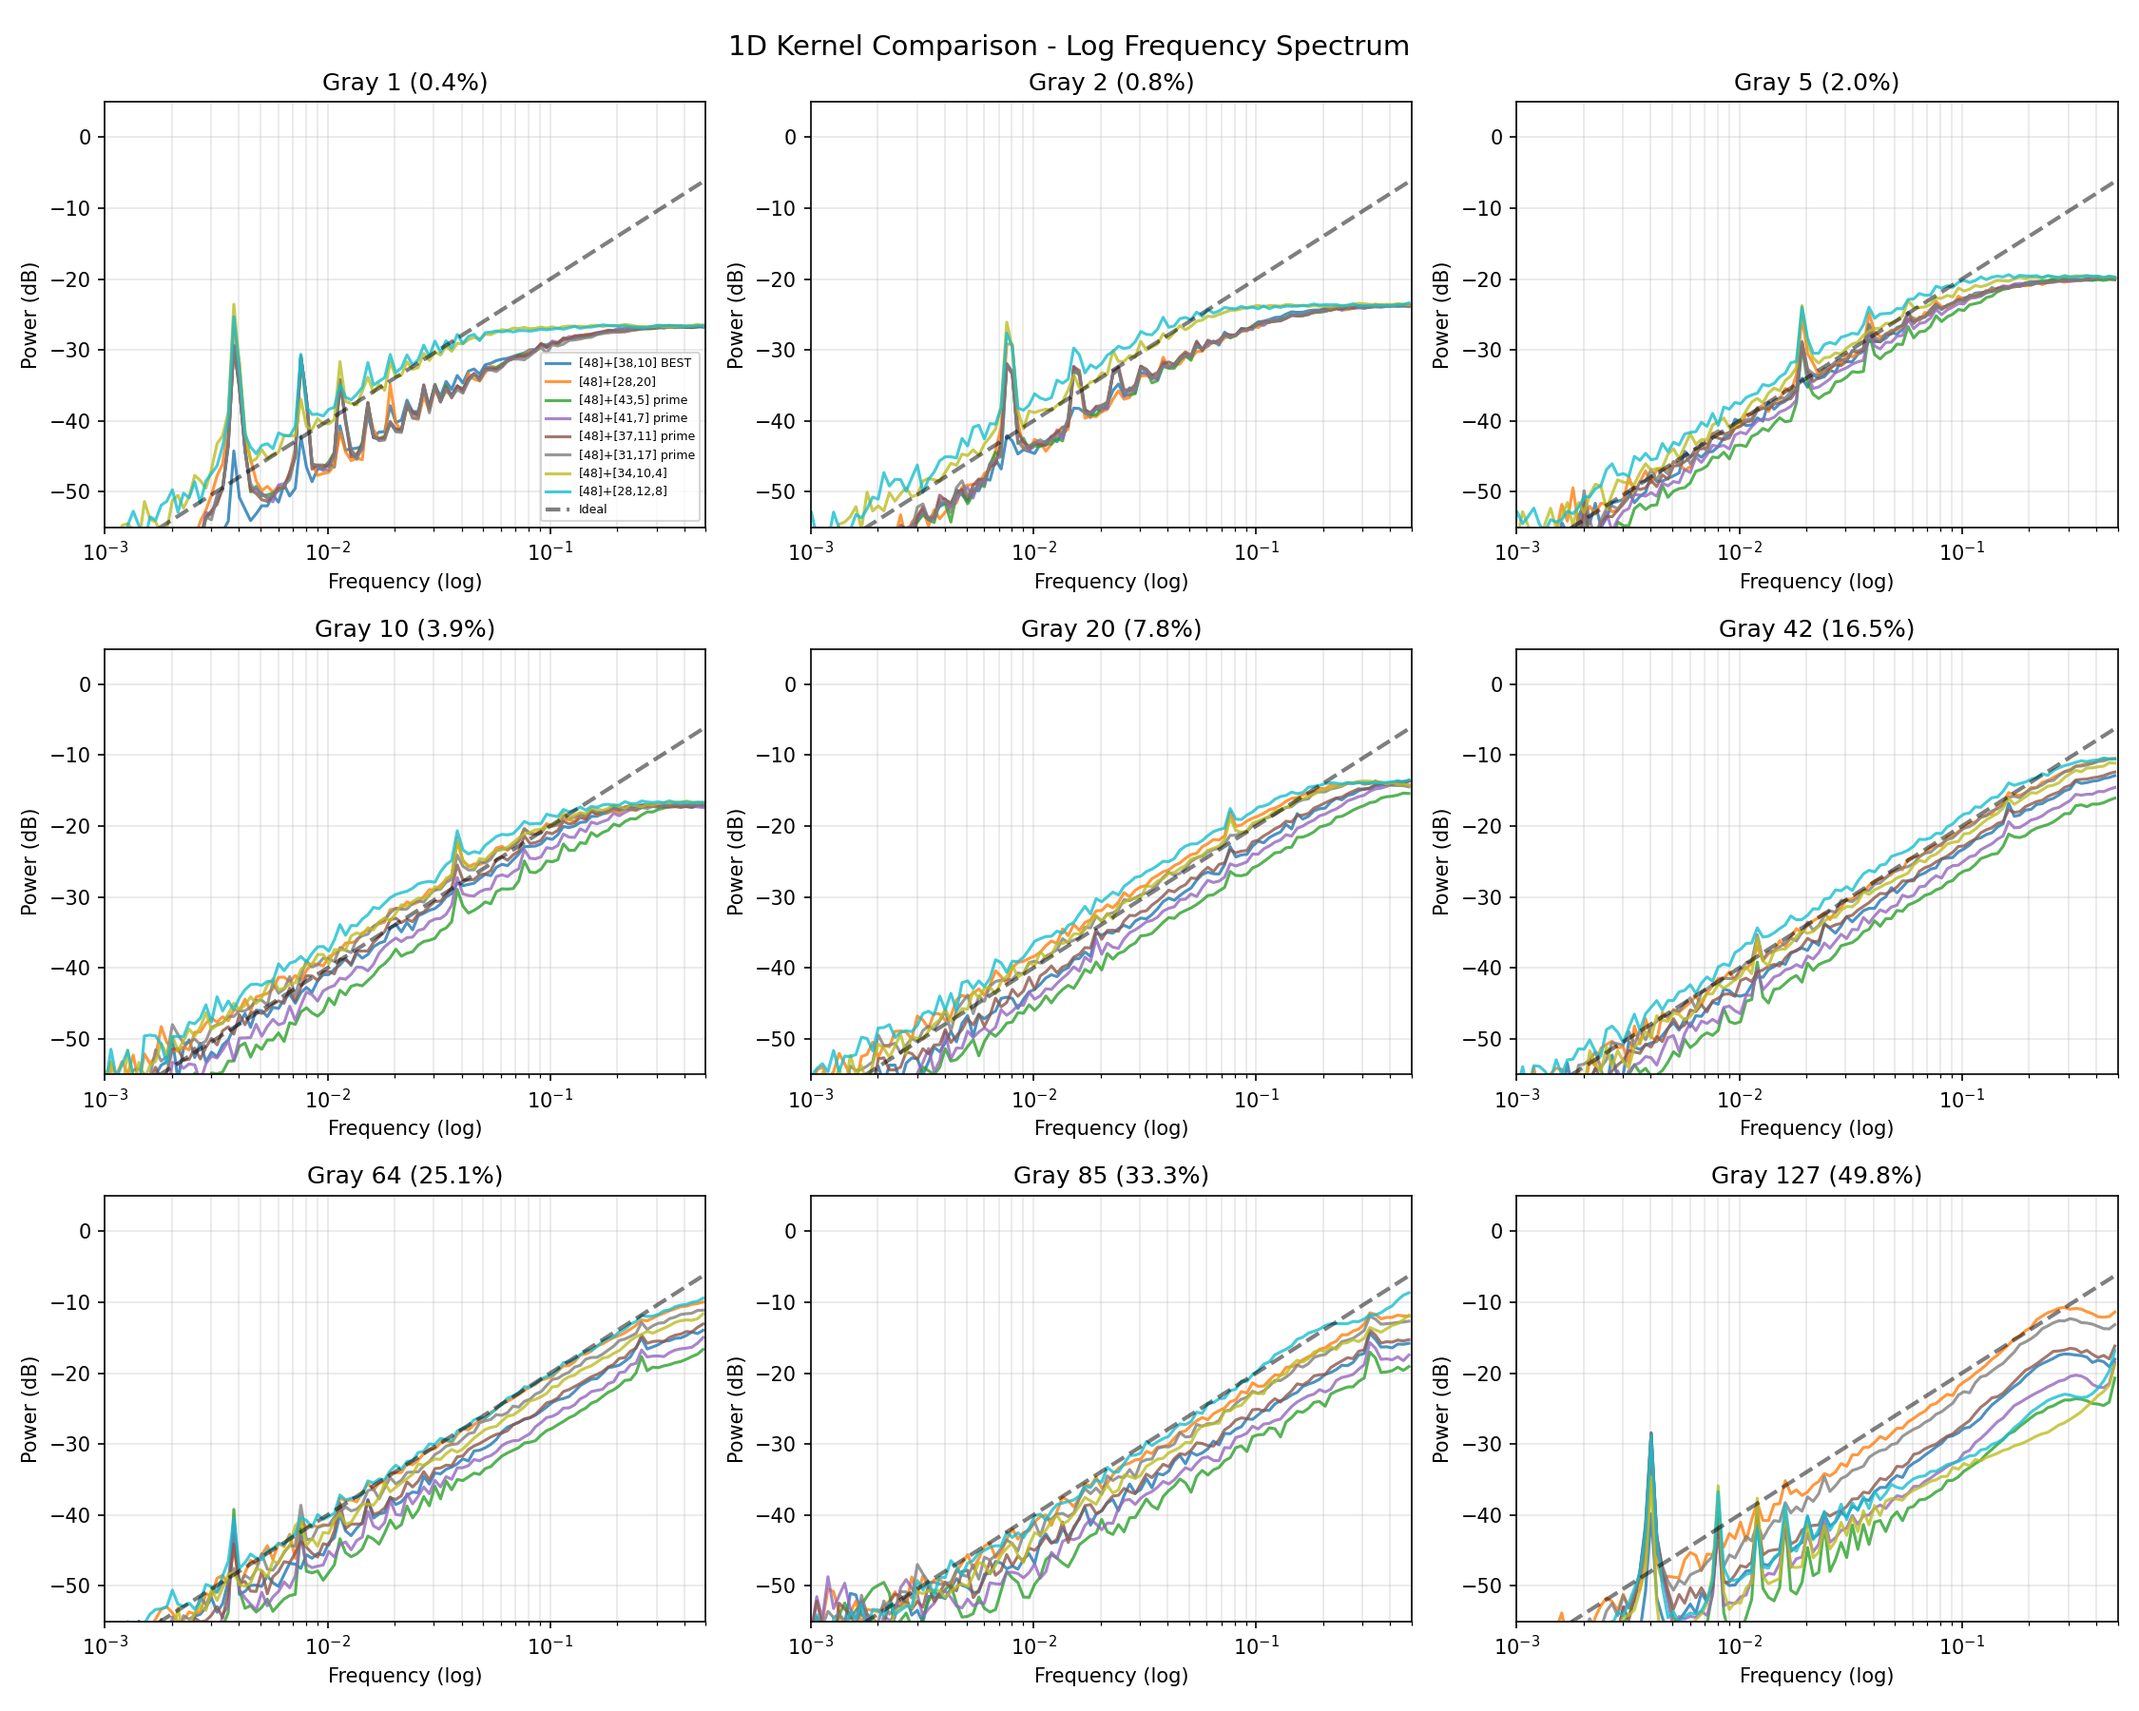
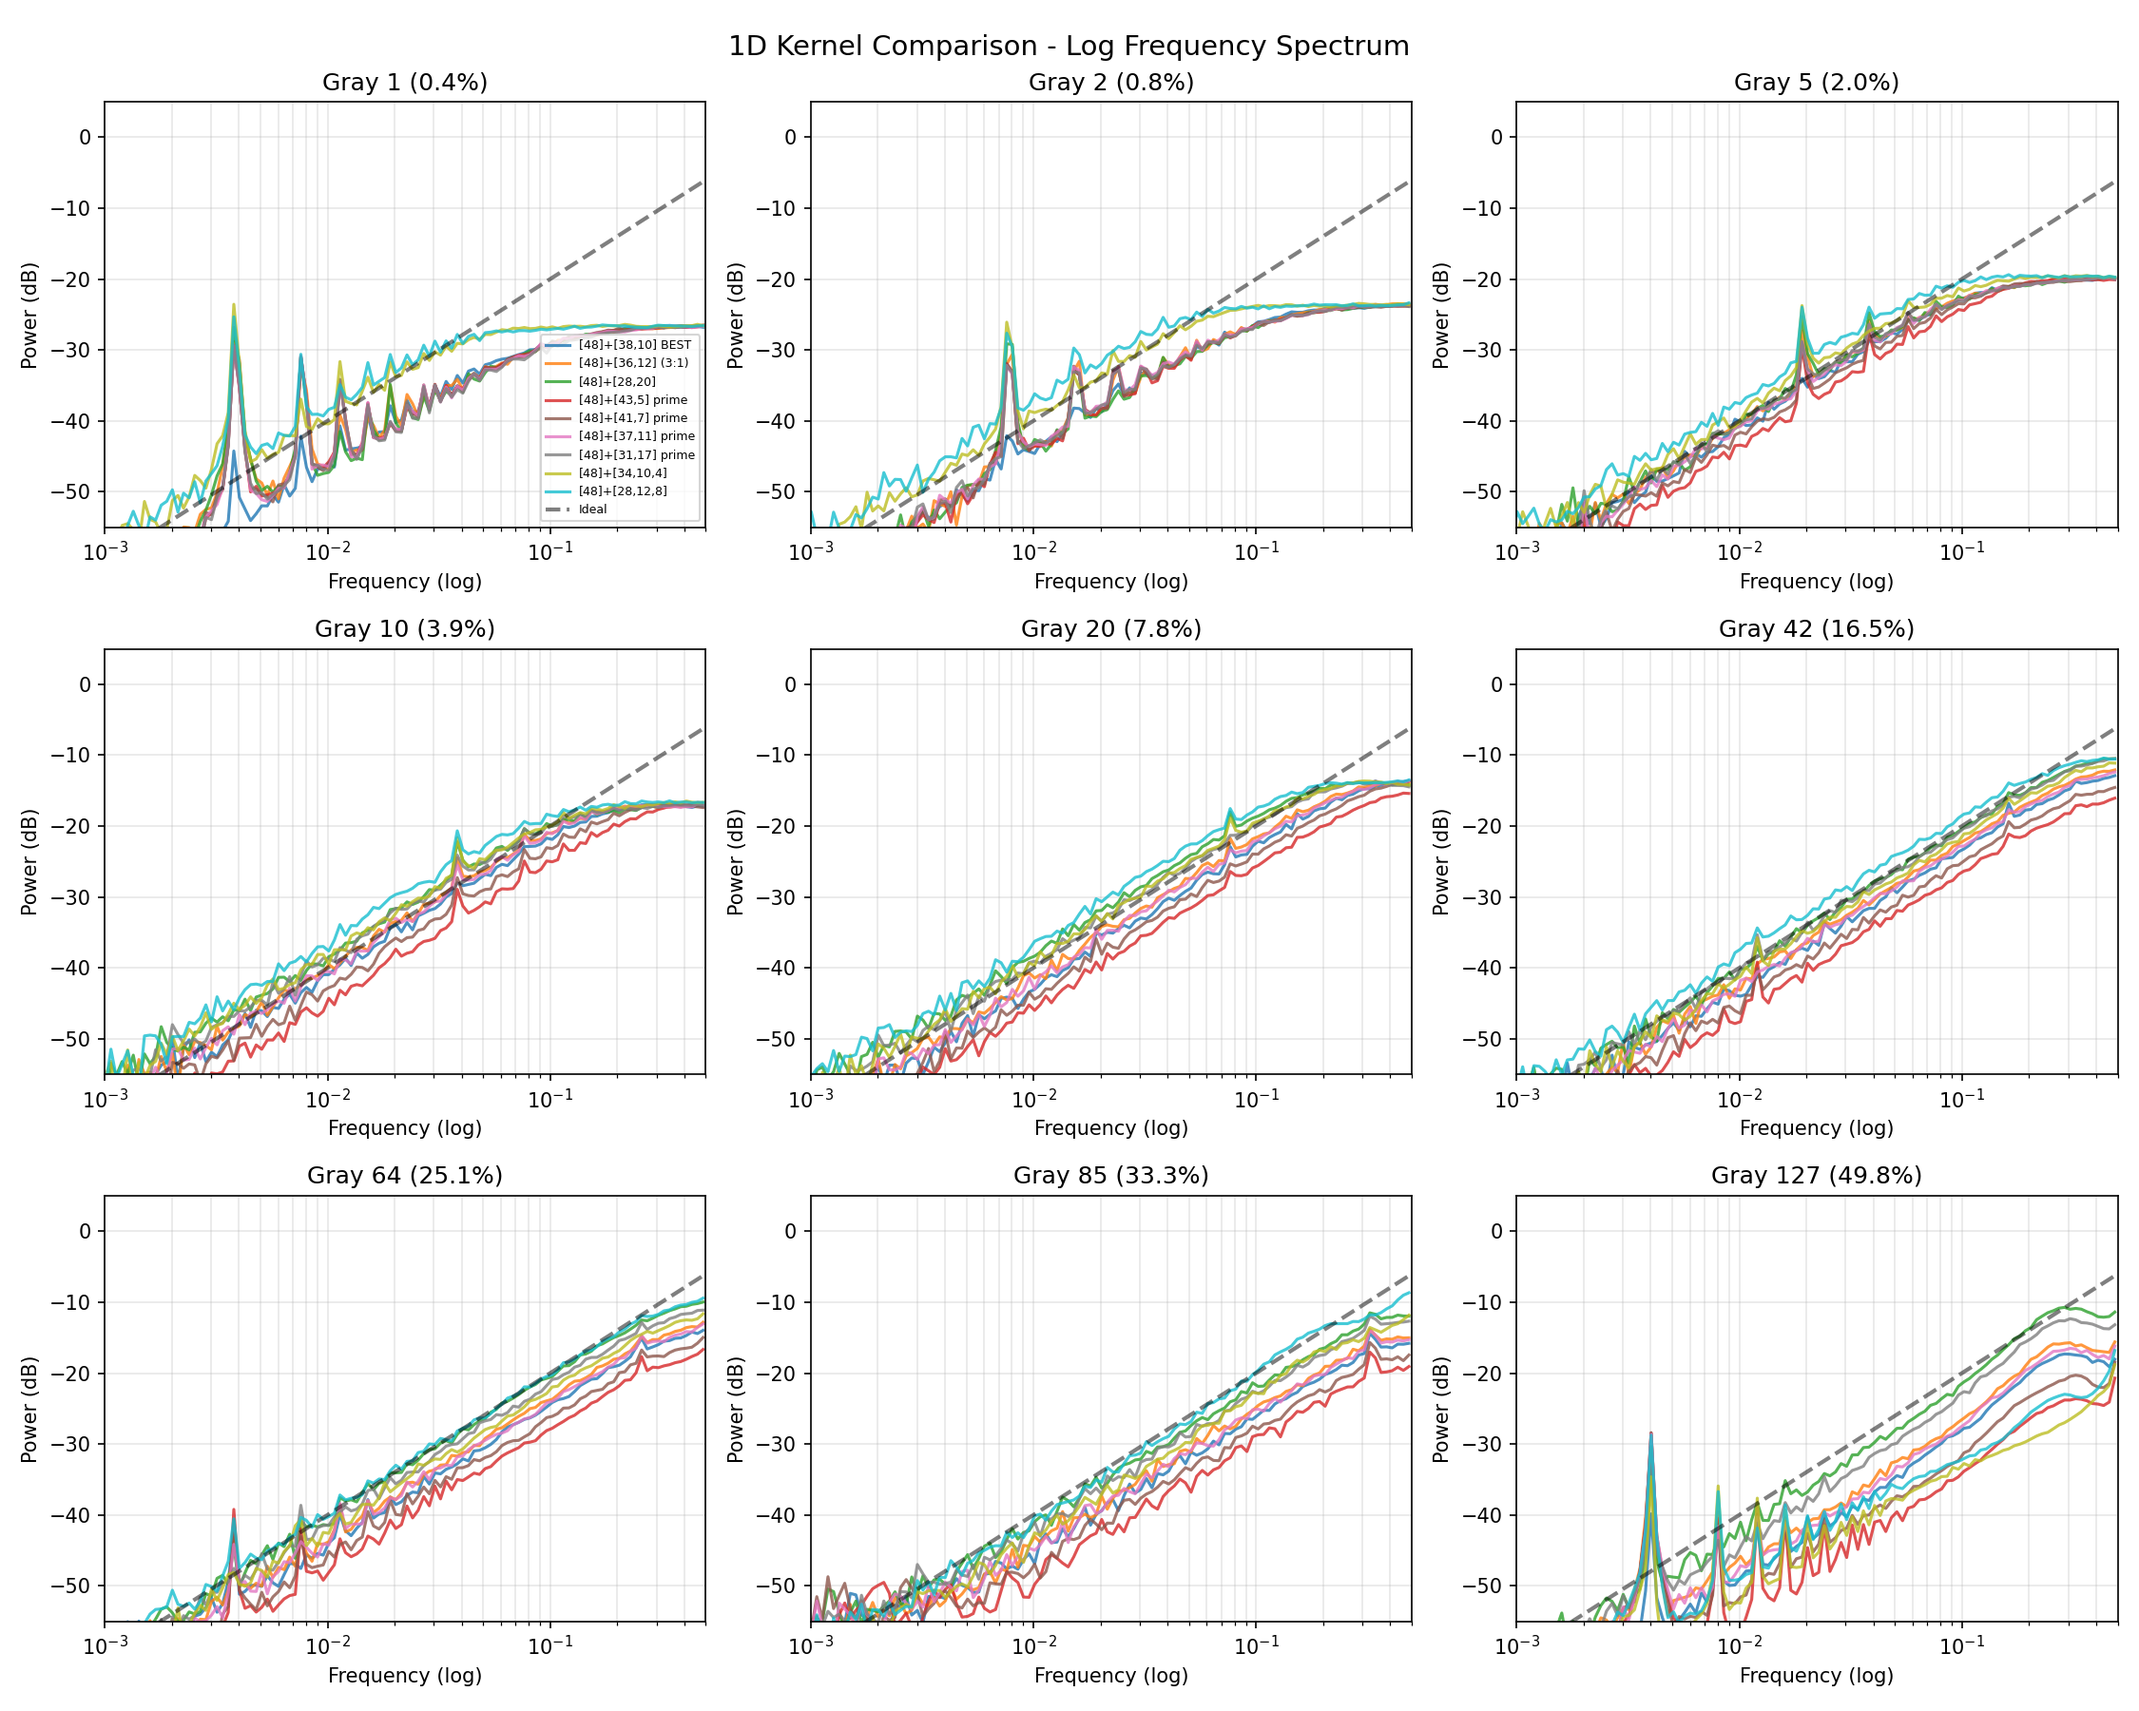
Test additional

diff --git a/tools/analyze_1d_dither.py b/tools/analyze_1d_dither.py
@@ -31,15 +31,30 @@ def lowbias32(x):
     x ^= x >> 15
     return x
 
-def blue_dither_1d(brightness, count, seed=12345):
+def blue_dither_1d(brightness, count, seed=12345, kernel='38_10'):
     """
     1D blue noise dithering - replicates C implementation.
-    Mixes [48] with [38,10] kernels (ratio ~4:1, optimal for 1D).
+    Mixes [48] with configurable second kernel.
+
+    kernel options:
+        '38_10' - ratio ~4:1 (current best)
+        '36_12' - ratio 3:1 ([3,1] scaled)
+        '28_20' - ratio 7:5 (original JJN-like)
     """
     err0, err1 = 0, 0
     output = np.zeros(count, dtype=np.uint8)
     threshold = 6120   # 127.5 * 48
     white_val = 255 * 48
+
+    # Kernel coefficients
+    if kernel == '38_10':
+        k1_coeff, k2_coeff = 38, 10
+    elif kernel == '36_12':
+        k1_coeff, k2_coeff = 36, 12
+    elif kernel == '28_20':
+        k1_coeff, k2_coeff = 28, 20
+    else:
+        k1_coeff, k2_coeff = 38, 10
 
     for i in range(count):
         pixel = brightness * 48 + err0
@@ -59,9 +74,9 @@ def blue_dither_1d(brightness, count, seed=12345):
             # FS-like: 100% to next
             err0 += quant_err
         else:
-            # Optimal 1D kernel: 38:10 ratio = 2×[19,5] (both prime)
-            err0 += (quant_err * 38) // 48
-            err1 += (quant_err * 10) // 48
+            # Second kernel
+            err0 += (quant_err * k1_coeff) // 48
+            err1 += (quant_err * k2_coeff) // 48
 
     return output
 
@@ -348,11 +363,97 @@ def analyze_comparison(gray_levels, count, output_dir):
     print(f"  {output_path.name}")
 
 
+def analyze_kernel_comparison(gray_levels, count, output_dir):
+    """Compare different 1D kernels across all gray levels."""
+    print("Comparing kernels across all gray levels...")
+
+    kernels = {
+        '[38,10] (3.8:1)': '38_10',
+        '[36,12] (3:1)': '36_12',
+        '[28,20] (1.4:1)': '28_20',
+    }
+    colors = {'38_10': '#2ecc71', '36_12': '#3498db', '28_20': '#e74c3c'}
+
+    # Print table header
+    print(f"\n  {'Kernel':<20}", end="")
+    for g in gray_levels:
+        print(f" G{g:>3}", end="")
+    print("    Avg")
+    print(f"  {'-'*70}")
+
+    results = {}
+    for name, kernel_id in kernels.items():
+        slopes = []
+        for gray in gray_levels:
+            sig = blue_dither_1d(gray, count, kernel=kernel_id)
+            freqs, power = compute_spectrum(sig)
+            slope = measure_slope(freqs, power)
+            slopes.append(slope if slope else 0)
+
+        avg_slope = np.mean(slopes)
+        results[name] = (slopes, avg_slope, kernel_id)
+
+        print(f"  {name:<20}", end="")
+        for s in slopes:
+            print(f" {s:>+4.1f}", end="")
+        print(f"  {avg_slope:>+5.2f}")
+
+    print(f"  {'-'*70}")
+    print(f"  {'Ideal blue noise':<20}", end="")
+    for _ in gray_levels:
+        print(f" {6.0:>+4.1f}", end="")
+    print(f"  {6.0:>+5.2f}")
+
+    # Generate comparison chart
+    n_cols = min(4, len(gray_levels))
+    n_rows = (len(gray_levels) + n_cols - 1) // n_cols
+    fig, axes = plt.subplots(n_rows, n_cols, figsize=(4 * n_cols, 4 * n_rows))
+    if n_rows == 1:
+        axes = axes.reshape(1, -1)
+    fig.suptitle('1D Kernel Comparison: [38,10] vs [36,12] vs [28,20]', fontsize=14)
+
+    for idx, gray in enumerate(gray_levels):
+        ax = axes[idx // n_cols, idx % n_cols]
+
+        for name, (slopes, avg, kernel_id) in results.items():
+            sig = blue_dither_1d(gray, count, kernel=kernel_id)
+            freqs, power = compute_spectrum(sig)
+            f_smooth, p_smooth = smooth_spectrum_log(freqs, power)
+            ax.semilogx(f_smooth, p_smooth, color=colors[kernel_id], linewidth=2,
+                        label=f'{name}' if idx == 0 else None, alpha=0.8)
+
+        # Ideal reference
+        f_ref = np.logspace(-3, np.log10(0.5), 100)
+        ideal_blue = -20 + 20 * np.log10(f_ref / 0.1)
+        ax.semilogx(f_ref, ideal_blue, 'k--', linewidth=1.5, alpha=0.5,
+                    label='Ideal' if idx == 0 else None)
+
+        ax.set_xlabel('Frequency (log)')
+        ax.set_ylabel('Power (dB)')
+        ax.set_title(f'Gray {gray} ({gray*100/255:.1f}%)')
+        ax.set_xlim(1e-3, 0.5)
+        ax.set_ylim(-55, 5)
+        ax.grid(True, alpha=0.3, which='both')
+
+    # Hide empty subplots
+    for idx in range(len(gray_levels), n_rows * n_cols):
+        axes[idx // n_cols, idx % n_cols].set_visible(False)
+
+    axes[0, 0].legend(loc='lower right', fontsize=8)
+    plt.tight_layout()
+
+    output_path = output_dir / 'spectrum_1d_kernel_full_comparison.png'
+    plt.savefig(output_path, dpi=150)
+    print(f"\n  Saved: {output_path}")
+    plt.close()
+
+
 def main():
     parser = argparse.ArgumentParser(description='Analyze 1D temporal dithering spectrum')
     parser.add_argument('--log', action='store_true', help='Use log frequency scale')
     parser.add_argument('--low-gray', action='store_true', help='Focus on low gray levels')
     parser.add_argument('--all', action='store_true', help='Run all analyses (default)')
+    parser.add_argument('--kernel-compare', action='store_true', help='Compare kernels [38,10] vs [36,12] vs [28,20]')
     parser.add_argument('--count', type=int, default=131072, help='Sample count (default: 131072)')
     args = parser.parse_args()
 
@@ -366,6 +467,14 @@ def main():
         gray_levels = [42, 64, 85, 127, 170, 191, 213]
 
     count = args.count
+
+    # Kernel comparison mode
+    if args.kernel_compare:
+        # Use full range of gray levels for kernel comparison
+        all_grays = [1, 2, 5, 10, 18, 20, 42, 43, 54, 64, 85, 91, 127, 128, 170, 191, 212, 213, 254]
+        analyze_kernel_comparison(all_grays, count, output_dir)
+        print(f"\nDone! Results in {output_dir}")
+        return
 
     # Always run log-scale analysis (it's the most useful)
     analyze_log_scale(gray_levels, count, output_dir)

diff --git a/tools/analyze_1d_kernels.py b/tools/analyze_1d_kernels.py
@@ -121,6 +121,12 @@ KERNEL_SETS = {
         [38, 10],       # ratio 3.8:1 = 2×[19,5] (both prime)
     ],
 
+    # User requested: [1]+[3,1] scaled to sum=48
+    '[48]+[36,12] (3:1)': [
+        [48],           # [1] scaled
+        [36, 12],       # [3,1] scaled, ratio 3:1
+    ],
+
     # Original implementation
     '[48]+[28,20]': [
         [48],           # 100% to t+1 (FS-like)
